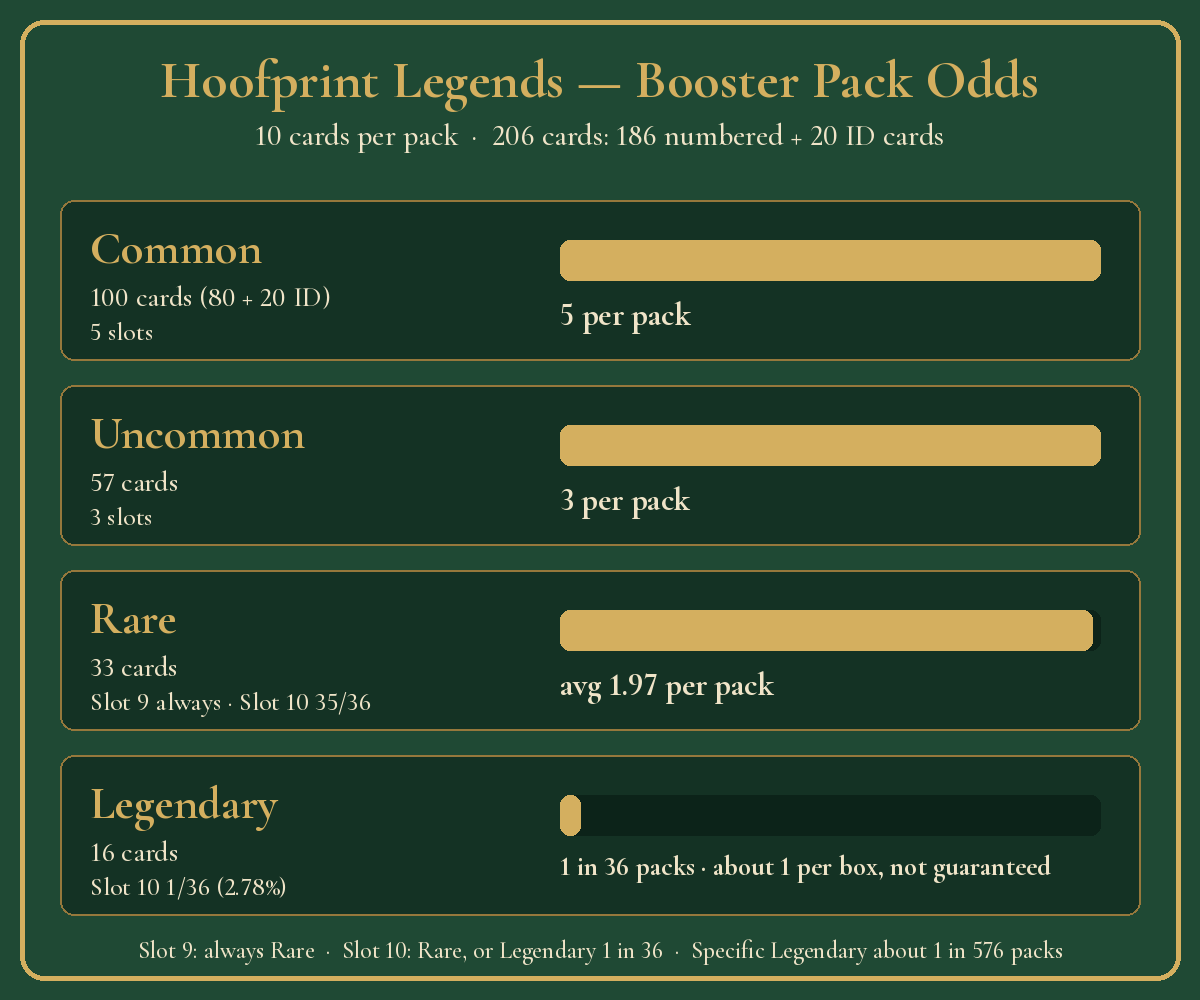
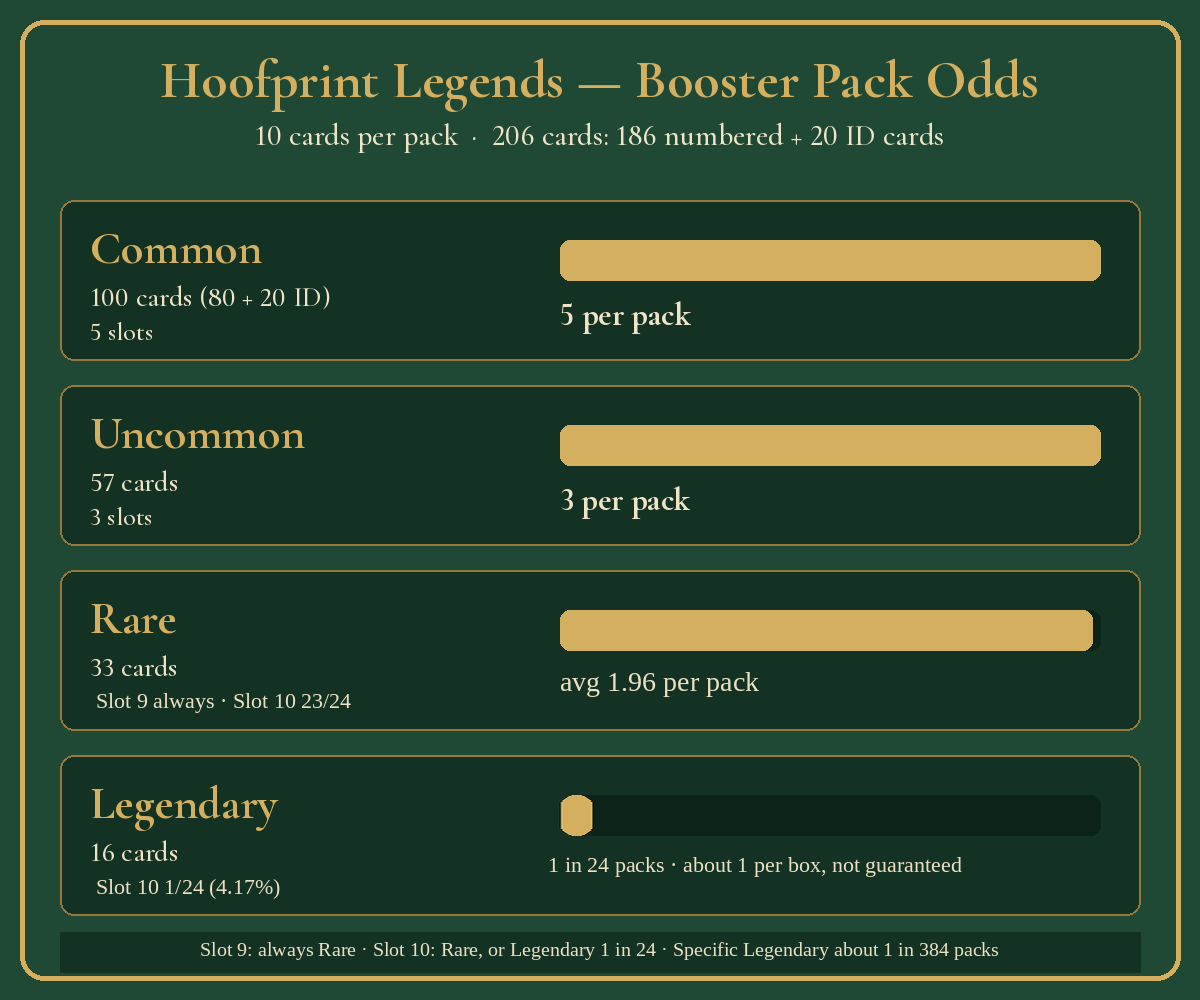
Add the Legendary chase gallery and set regular Legendary odds to 1 in 24 packs.
The chase view shows the 16 full-art cards in the same grid, with click-to-enlarge. Pack copy and the odds graphics now say a regular Legendary is 1 in 24 packs, about 1 per box.

diff --git a/horse-cards/index.html b/horse-cards/index.html
@@ -5,7 +5,7 @@
 <meta name="viewport" content="width=device-width, initial-scale=1">
 <title>Hoofprint Legends | Dukktape Studios</title>
 <meta name="description" content="206 cards. History, racing, and breeds.">
-<link rel="stylesheet" href="style.css?v=2026110201">
+<link rel="stylesheet" href="style.css?v=2026110202">
 <script src="https://cdn.counter.dev/script.js" data-id="ba47e44e-2532-4c58-8d46-6d2b653d6d81" data-utcoffset="-6"></script>
 </head>
 <body>
@@ -21,6 +21,10 @@
   </div>
 </header>
 <p class="note">Each note is a short documented fact. All 206 cards use original art by Dukktape Studios (AI-assisted).</p>
+<div class="filters set-switch" role="group" aria-label="Which cards to show">
+  <button type="button" data-set="base" aria-pressed="true">Base Set</button>
+  <button type="button" data-set="chase" aria-pressed="false">Chase Cards</button>
+</div>
 <div class="controls">
   <button type="button" id="filters-toggle" class="filters-toggle" aria-expanded="false" aria-controls="filter-panel">
     Search &amp; Filters <span class="filters-arrow" aria-hidden="true">▼</span>
@@ -55,6 +59,10 @@
     <li><b>Base.</b> Cream card.</li>
   </ul>
 </section>
+<div id="chase-intro" class="chase-intro" hidden>
+  <h2>Chase Cards — Legendary Full Art</h2>
+  <p>Ultra-rare full-art Legendary cards, about 1 in every 10 boxes.</p>
+</div>
 <div class="grid" id="grid"></div>
 <p id="empty" class="empty" hidden>No cards match.</p>
 <section class="card-back">
@@ -71,10 +79,10 @@
       <img src="packs/booster-box-32.jpg" width="1024" height="1024" alt="Hoofprint Legends booster box holding 32 booster packs">
       <figcaption>Booster Box — 32 Packs · Coming Soon</figcaption>
     </figure>
-    <img class="pack-back" src="packs/pack-back.png" width="864" height="1152" alt="Back of a Hoofprint Legends booster pack. Ten cards: 5 Common, 3 Uncommon, one guaranteed Rare, and a Legendary about 1 in 36 packs.">
+    <img class="pack-back" src="packs/pack-back.png?v=2026110203" width="864" height="1152" alt="Back of a Hoofprint Legends booster pack. Ten cards: 5 Common, 3 Uncommon, one guaranteed Rare, and a Legendary 1 in 24 packs (about 1 per box).">
   </div>
-  <img class="pack-odds" src="packs/pack-odds.png" width="1200" height="1000" alt="Hoofprint Legends booster pack odds. Five Common, three Uncommon, one guaranteed Rare, and a Legendary in 1 of 36 packs. A 36-pack box averages about 1 Legendary. A specific Legendary is about 1 in 576 packs. Set: 100 Common, 57 Uncommon, 33 Rare, 16 Legendary.">
-  <p class="pack-note">Hoofprint Legends booster packs contain 10 cards: 5 Common (ID cards included), 3 Uncommon, 1 guaranteed Rare, and 1 Rare-or-Legendary slot (Legendary 1 in 36, Rare otherwise). A 36-pack box averages about 1 Legendary (about 64% of boxes have at least one; not guaranteed). Any specific Legendary is about 1 in 576 packs. Set: 100 Common, 57 Uncommon, 33 Rare, 16 Legendary (206 cards).</p>
+  <img class="pack-odds" src="packs/pack-odds.png?v=2026110203" width="1200" height="1000" alt="Hoofprint Legends booster pack odds. Five Common, three Uncommon, one guaranteed Rare, and a Legendary 1 in 24 packs (about 1 per box). A specific Legendary is about 1 in 384 packs. Set: 100 Common, 57 Uncommon, 33 Rare, 16 Legendary.">
+  <p class="pack-note">Hoofprint Legends booster packs contain 10 cards: 5 Common (ID cards included), 3 Uncommon, 1 guaranteed Rare, and 1 Rare-or-Legendary slot (Legendary 1 in 24 packs, about 1 per box, Rare otherwise). A box averages about 1 Legendary (about 64% of boxes have at least one; not guaranteed). Any specific Legendary is about 1 in 384 packs. Set: 100 Common, 57 Uncommon, 33 Rare, 16 Legendary (206 cards).</p>
   <p class="shop-cta"><a class="coming-soon" href="shop.html">Coming Soon</a></p>
 </section>
 <dialog id="zoom">
@@ -88,6 +96,6 @@
 </section>
 <footer>© 2026 Dukktape Studios</footer>
 <script src="data.js?v=2026103154"></script>
-<script src="app.js?v=2026110201"></script>
+<script src="app.js?v=2026110203"></script>
 </body>
 </html>

diff --git a/horse-cards/app.js b/horse-cards/app.js
@@ -24,6 +24,28 @@
   };
   var tier = "base";
   var picks = {};
+  var setView = "base";
+  var chaseIntro = document.getElementById("chase-intro");
+  var controls = document.querySelector(".controls");
+  var legend = document.querySelector(".legend");
+  var CHASE = [
+    { file: "001_bucephalus.jpg", name: "Bucephalus" },
+    { file: "014_copenhagen.jpg", name: "Copenhagen" },
+    { file: "015_marengo.jpg", name: "Marengo" },
+    { file: "033_sergeant-reckless.jpg", name: "Sergeant Reckless" },
+    { file: "036_eclipse.jpg", name: "Eclipse" },
+    { file: "039_man-o-war.jpg", name: "Man o' War" },
+    { file: "053_secretariat.jpg", name: "Secretariat" },
+    { file: "056_seattle-slew.jpg", name: "Seattle Slew" },
+    { file: "067_american-pharoah.jpg", name: "American Pharoah" },
+    { file: "070_frankel.jpg", name: "Frankel" },
+    { file: "079_phar-lap.jpg", name: "Phar Lap" },
+    { file: "082_winx.jpg", name: "Winx" },
+    { file: "086_red-rum.jpg", name: "Red Rum" },
+    { file: "087_arkle.jpg", name: "Arkle" },
+    { file: "185_riverton.jpg", name: "Riverton" },
+    { file: "186_kali.jpg", name: "Kali" }
+  ];
 
   function tierById(id) {
     for (var i = 0; i < TIERS.length; i++) if (TIERS[i].id === id) return TIERS[i];
@@ -132,7 +154,31 @@
     slot.querySelector(".tier-switch").innerHTML = switcher(card);
   }
 
+  function renderChase() {
+    chaseIntro.hidden = false;
+    legend.hidden = true;
+    controls.hidden = true;
+    empty.hidden = true;
+    grid.replaceChildren();
+    CHASE.forEach(function (item) {
+      var slot = document.createElement("div");
+      slot.className = "slot";
+      slot.innerHTML = '<div class="card-scale"><button type="button" class="chase-card"><img alt="' + esc(item.name) + ' chase card" src="chase/' + item.file + '?v=2026110202" width="750" height="1050"></button></div>';
+      slot.querySelector("button").addEventListener("click", function () {
+        openChase(item, slot.querySelector("button"));
+      });
+      grid.appendChild(slot);
+    });
+  }
+
   function render() {
+    if (setView === "chase") {
+      renderChase();
+      return;
+    }
+    chaseIntro.hidden = true;
+    legend.hidden = false;
+    controls.hidden = false;
     var shown = cards.filter(matches);
     grid.replaceChildren();
     var labeled = false;
@@ -166,6 +212,14 @@
     var which = tierOf(card);
     zoomBody.setAttribute("data-id", card.id);
     zoomBody.innerHTML = '<div class="card-scale"><div class="' + cardClass(card, which) + '">' + face(card, which) + '</div></div><div class="tier-switch" role="group" aria-label="Tiers for ' + card.name + '">' + switcher(card) + "</div>";
+  }
+
+  function openChase(item, opener) {
+    lastFocus = opener;
+    zoomBody.removeAttribute("data-id");
+    zoomBody.innerHTML = '<div class="card-scale"><img class="chase-zoom" alt="' + esc(item.name) + ' chase card" src="chase/' + item.file + '?v=2026110202" width="750" height="1050"></div>';
+    if (typeof zoom.showModal === "function") zoom.showModal();
+    document.getElementById("zoom-close").focus();
   }
 
   function openZoom(card, opener) {
@@ -231,6 +285,17 @@
   document.getElementById("zoom-close").addEventListener("click", function () { zoom.close(); });
   zoom.addEventListener("click", function (e) { if (e.target === zoom) zoom.close(); });
   zoom.addEventListener("close", function () { if (lastFocus) lastFocus.focus(); });
+
+  document.querySelectorAll("[data-set]").forEach(function (btn) {
+    btn.addEventListener("click", function () {
+      setView = btn.getAttribute("data-set");
+      document.querySelectorAll("[data-set]").forEach(function (b) {
+        b.setAttribute("aria-pressed", b === btn ? "true" : "false");
+      });
+      if (zoom.open) zoom.close();
+      render();
+    });
+  });
 
   render();
 })();

diff --git a/horse-cards/style.css b/horse-cards/style.css
@@ -30,7 +30,7 @@ button {
   cursor: pointer;
 }
 button[aria-pressed="true"] { background: #fffaf0; }
-.top, .note, .controls, .legend, .grid, .empty, .card-back, .boosters, .site-feedback {
+.top, .note, .controls, .legend, .grid, .empty, .card-back, .boosters, .site-feedback, .set-switch, .chase-intro {
   width: min(1100px, calc(100% - 20px));
   margin-left: auto;
   margin-right: auto;
@@ -125,6 +125,27 @@ h1 { margin: 0; font-size: clamp(2rem, 6vw, 3.2rem); line-height: .95; }
   color: #fff8ea;
 }
 .tier-switch button[aria-pressed="true"] { background: #fffaf0; color: var(--ink); }
+.chase-intro { margin: 14px auto 0; }
+.chase-intro h2 { margin: 0; font-size: 1.45rem; }
+.chase-intro p { margin: 6px 0 0; }
+.chase-card {
+  position: absolute;
+  inset: 0;
+  width: 100%;
+  height: 100%;
+  padding: 0;
+  min-height: 0;
+  border: 0;
+  border-radius: 8px;
+  background: #1a120c;
+  overflow: hidden;
+}
+.chase-card img, #zoom-body .chase-zoom {
+  width: 100%;
+  height: 100%;
+  object-fit: cover;
+  display: block;
+}
 .grid {
   display: grid;
   grid-template-columns: repeat(auto-fill, minmax(200px, 1fr));
